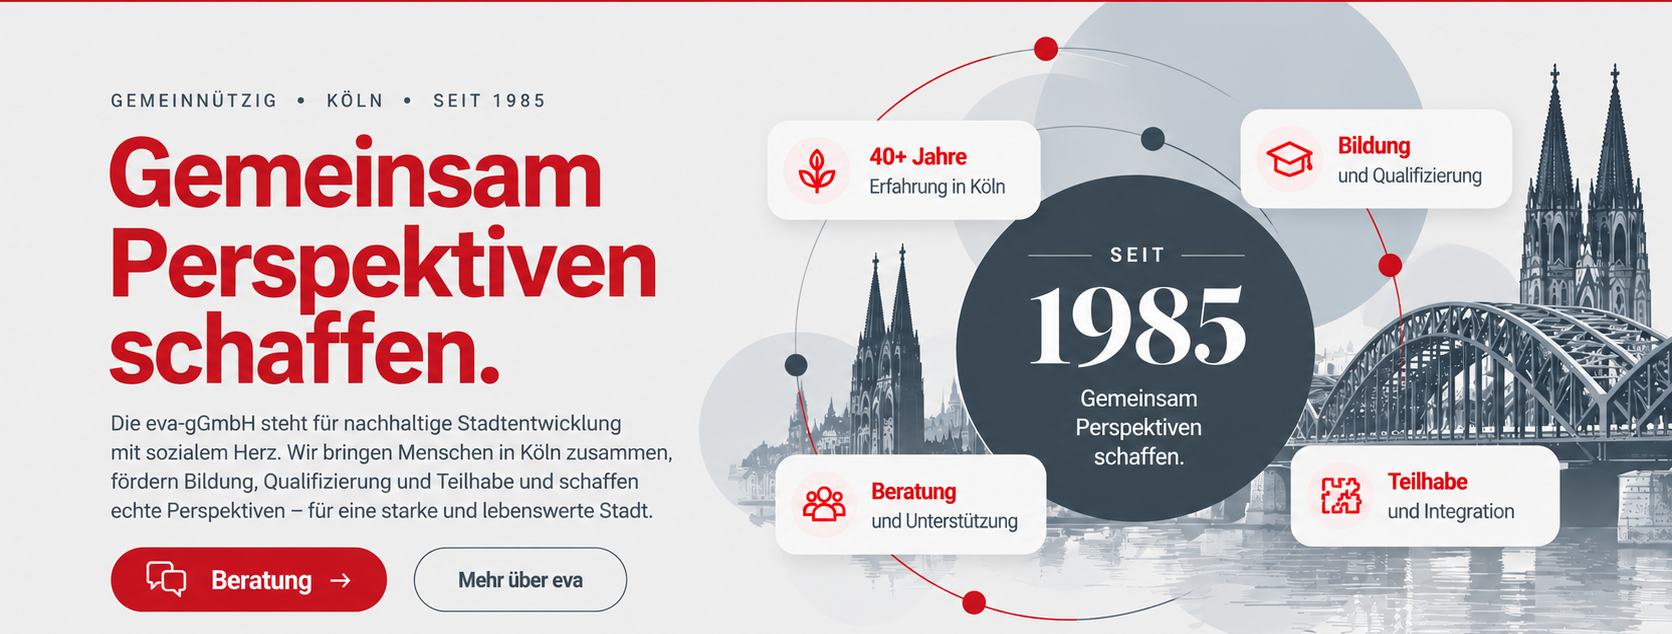
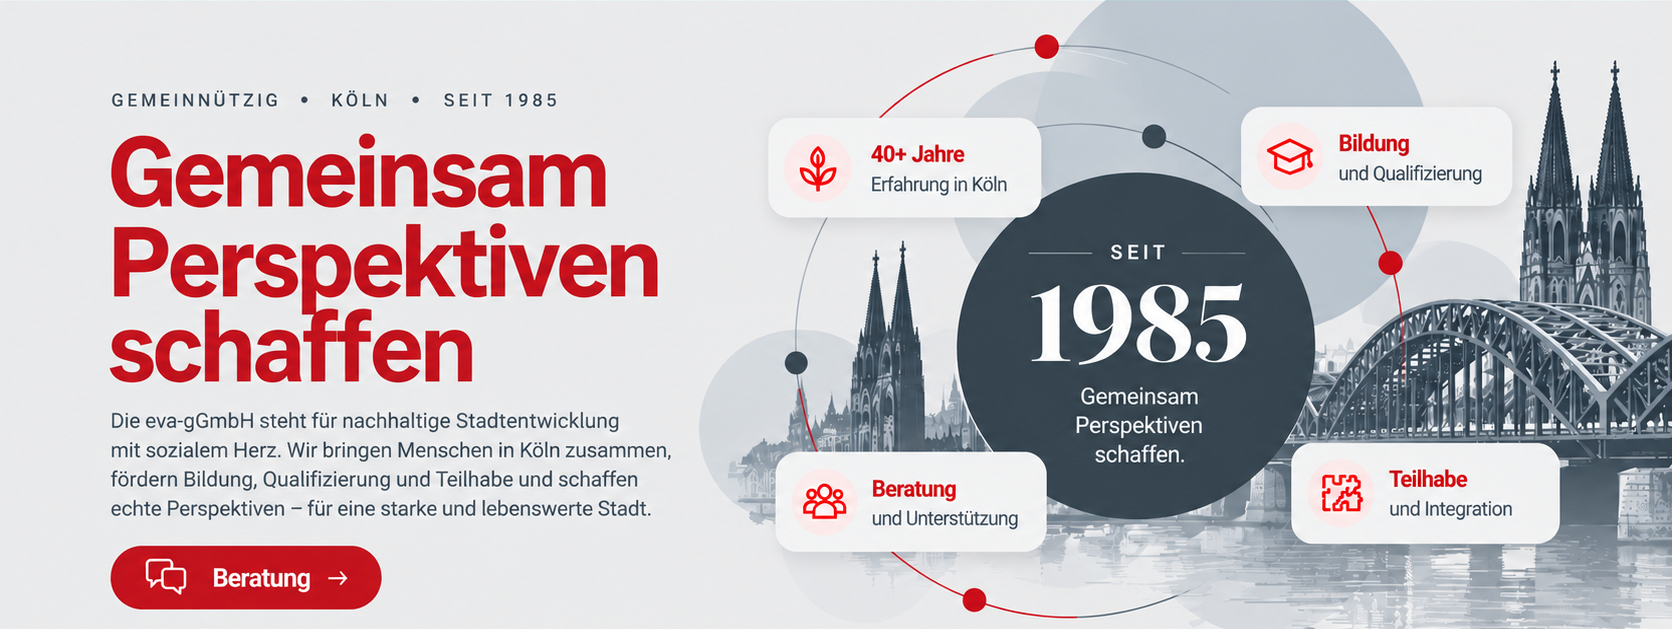
Korrektur von Birthe Müller

diff --git a/index.html b/index.html
@@ -9,11 +9,7 @@
     </nav>
     <button class="menu-toggle" aria-label="Menü öffnen">☰</button></div></header>
 <main>
-<section class="hero-image-v16" aria-label="eva – Gemeinsam Perspektiven schaffen">
-  <img src="assets/img/hero-final-v16.png" alt="Gemeinsam Perspektiven schaffen – eva seit 1985">
-  <a class="hero-beratung-hotspot" href="kontakt.html" aria-label="Beratung – zur Kontaktseite"><span>Beratung</span></a>
-</section>
-<div class="ticker" aria-label="Arbeitsfelder der eva"><div class="ticker-track"><span>BERATUNG</span><i>•</i><span>QUALIFIZIERUNG</span><i>•</i><span>INTEGRATION</span><i>•</i><span>BESCHÄFTIGUNG</span><i>•</i><span>NACHHALTIGKEIT</span><i>•</i><span>TEILHABE</span><i>•</i><span>BERATUNG</span><i>•</i><span>QUALIFIZIERUNG</span><i>•</i><span>INTEGRATION</span><i>•</i><span>BESCHÄFTIGUNG</span><i>•</i><span>NACHHALTIGKEIT</span><i>•</i><span>TEILHABE</span></div></div>
+<section class="hero-v19" aria-label="eva – Gemeinsam Perspektiven schaffen"><div class="hero-v19-inner"><div class="hero-v19-copy"><p class="hero-v19-eyebrow">GEMEINNÜTZIG · KÖLN · SEIT 1985</p><h1>Gemeinsam<br>Perspektiven<br>schaffen</h1><p class="hero-v19-description">Die eva-gGmbH steht für nachhaltige Stadtentwicklung mit sozialem Herz. Wir bringen Menschen in Köln zusammen, fördern Bildung, Qualifizierung und Teilhabe und schaffen echte Perspektiven – für eine starke und lebenswerte Stadt.</p><div class="hero-v19-actions"><a class="btn" href="kontakt.html">Beratung →</a><a class="btn hero-v19-secondary" href="ueber-team.html">Mehr über eva →</a></div></div></section>
 <section class="section offers" id="angebote"><div class="section-head offers-head"><div><h2>Angebote</h2><p class="section-subtitle">Maßnahmen, Projekte und Repair Café</p></div><div class="intro"><p>Zusammen mit dem Jobcenter und der Agentur für Arbeit Köln bieten wir Maßnahmen zur Beratung und Qualifizierung sowie Möglichkeiten für Fachpraktika und Arbeitsgelegenheiten. Wir vermitteln Arbeit suchende Menschen nachhaltig in den Arbeitsmarkt. In unseren Berufsfelderkungen unterstützen wir junge Menschen dabei, sich frühzeitig beruflich zu orientieren. In unseren Angeboten ermöglichen und fördern wir die Zusammenarbeit und den Dialog von Menschen aller Altersstufen und Schichten, Religionen und Kulturen. Unsere Angebote umfassen dabei auch Themen wie Ökologie und Nachhaltigkeit, z. B. in unserer kostenlosen Offenen Werkstatt für Re- und Upcyclinjg. Alle Angebote sind barrierearm oder -frei.</p></div></div>
 <div class="offer-grid feature-grid"><a class="offer-card featured" href="angebot-campus-fit.html"><div class="card-image"><img src="assets/img/angebot-campus-fit.png" alt="Campus: Fit für die Zukunft"></div><div class="card-copy"><span class="eyebrow">Angebot</span><h3>Campus: Fit für die Zukunft</h3><p>Individuelle Begleitung und Beratung</p><span class="more">Mehr erfahren →</span></div></a></div><div class="offer-grid three"><a class="offer-card" href="angebot-campus-arbeit.html"><div class="card-image"><img src="assets/img/angebot-campus-arbeit.png" alt="Campus: Arbeit"></div><div class="card-copy"><span class="eyebrow">Angebot</span><h3>Campus: Arbeit</h3><p>Mit Campus: Arbeit stellen sich in Arbeitsvermittlung und Bewerbungscoaching langjährig erfahrene Partner an Ihre Seite.</p><span class="more">Mehr erfahren →</span></div></a><a class="offer-card" href="angebot-jugendlotsen.html"><div class="card-image"><img src="assets/img/angebot-jugendlotsen.png" alt="Kölner Jugendlotsen"></div><div class="card-copy"><span class="eyebrow">Angebot</span><h3>Kölner Jugendlotsen</h3><p>Im Rahmen des Projektes Kölner Jugendlotsen stehen die Teilnehmenden mit ihren individuellen persönlichen und beruflichen Zielen, Kompetenzen, Potenzialen und Bedarfen im Mittelpunkt.</p><span class="more">Mehr erfahren →</span></div></a><a class="offer-card" href="angebot-berufsfelderkundungen.html"><div class="card-image"><img src="assets/img/angebot-berufsfeld.png" alt="Berufsfelderkundungen"></div><div class="card-copy"><span class="eyebrow">Angebot</span><h3>Berufsfelderkundungen</h3><p>Deine Zukunft. Dein Beruf. Entdecke, was in dir steckt!</p><span class="more">Mehr erfahren →</span></div></a></div><div class="offer-grid two"><a class="offer-card" href="angebot-ati.html"><div class="card-image"><img src="assets/img/angebot-ati.png" alt="ATI – Ankommen, Teilhaben, Integrieren"></div><div class="card-copy"><span class="eyebrow">Angebot</span><h3>ATI – Ankommen, Teilhaben, Integrieren</h3><p>ATI – Ankommen-Teilhaben-Integrieren ist ein Angebot im Rahmen des ESF-Programms EhAP Plus mit dem Ziel, die Lebenssituation von armutsgefährdeten und von sozialer Ausgrenzung bedrohten Personen zu verbessern. Insbesondere richtet es sich an besonders benachteiligte neuzugewanderte Unionsbürgerinnen und -bürger und deren Kinder unter 18 Jahren. Wir erreichen dieses Ziel durch Ansprache, Beratung und Begleitung.</p><span class="more">Mehr erfahren →</span></div></a><a class="offer-card" href="angebot-reha.html"><div class="card-image"><img src="assets/img/angebot-reha.png" alt="Berufliche Rehabilitation"></div><div class="card-copy"><span class="eyebrow">Angebot</span><h3>Berufliche Rehabilitation</h3><p>Unsere Maßnahme zur beruflichen Rehabilitation unterstützt Menschen dabei, ihren Weg in Arbeit zu finden – oder nach einer Unterbrechung erfolgreich zurückzukehren.</p><span class="more">Mehr erfahren →</span></div></a><a class="offer-card" href="angebot-ehrenwerk.html"><div class="card-image"><img src="assets/img/angebot-ehrenwerk.png" alt="Ehrenwerk"></div><div class="card-copy"><span class="eyebrow">Angebot</span><h3>Ehrenwerk</h3><p>Gemeinsam Altes aufmöbeln – in unserem Repair Café</p><span class="more">Mehr erfahren →</span></div></a><a class="offer-card" href="angebot-agh.html"><div class="card-image"><img src="assets/img/angebot-agh.png" alt="AGH-Stellen"></div><div class="card-copy"><span class="eyebrow">Angebot</span><h3>AGH-Stellen</h3><p>Die eva-gGmbH bietet im Auftrag des Jobcenters Köln, auf Grundlage des §16 SGB II, erwerbsfähigen Bezieherinnen und Beziehern von Bürgergeld die Möglichkeit, durch Beschäftigungsmaßnahmen ihre Beschäftigungsfähigkeit zu erhöhen und in der Perspektive ihre Chancen auf Integration in den ersten Arbeitsmarkt zu verbessern.</p><span class="more">Mehr erfahren →</span></div></a></div></section>
 <section class="section services" id="dienstleistungen"><div class="section-head services-head"><div><h2>Dienstleistungen</h2><p class="section-subtitle">Handwerkerleistungen, Fahrradwerkstatt und Raumvermietung</p></div><div class="intro"><p>Ob Sie professionelle Arbeiten aus verschiedenen Gewerken, einen Check für Ihr Fahrrad oder Räumlichkeiten für Arbeit oder Party suchen – entdecken Sie unsere Serviceangebote! Wir unterstützen Sie und erleichtern Ihnen den Alltag.</p></div></div><div class="service-grid"><a class="service-tile" href="dienstleistung-gewerke.html"><img src="assets/img/service-gewerke.png" alt="Gewerke"><div class="service-overlay"><h3>Gewerke</h3><span>Mehr erfahren →</span></div></a><a class="service-tile" href="dienstleistung-zweiradwerkstatt.html"><img src="assets/img/service-bike.png" alt="Zweiradwerkstatt 180°"><div class="service-overlay"><h3>Zweiradwerkstatt 180°</h3><span>Mehr erfahren →</span></div></a><a class="service-tile" href="dienstleistung-vermietung.html"><img src="assets/img/service-rental.png" alt="Vermietung"><div class="service-overlay"><h3>Vermietung</h3><span>Mehr erfahren →</span></div></a></div></section>

diff --git a/assets/site.css b/assets/site.css
@@ -1295,3 +1295,57 @@ main{background:var(--page-grey)}
   .hero-image-v16>img{width:1180px;max-width:none}
   .hero-beratung-hotspot{left:77px;top:538px;width:200px;height:60px}
 }
+
+/* v18 — final hero cleanup: only the animated ticker remains below artwork */
+.hero-beratung-hotspot{
+  left:6.55%;
+  top:85.6%;
+  width:16.8%;
+  height:9.7%;
+}
+@media(max-width:760px){
+  .hero-beratung-hotspot{
+    left:77px;
+    top:380px;
+    width:200px;
+    height:43px;
+  }
+}
+
+/* v19: continuous full-width cool-grey hero and section backgrounds */
+:root{--eva-hero-cool:#edf0f2;--eva-offers-cool:#dfe4e8}
+html,body{background:#e8ecef}
+.hero-v19{background:var(--eva-hero-cool);width:100%;margin:0;padding:clamp(38px,4.2vw,72px) max(22px,calc((100vw - 1440px)/2));box-sizing:border-box}
+.hero-v19-inner{max-width:1440px;margin:auto;display:grid;grid-template-columns:minmax(0,43%) minmax(0,57%);align-items:center;gap:0}
+.hero-v19-copy{padding:20px clamp(16px,3vw,46px) 20px 0;align-self:center}
+.hero-v19-eyebrow{font-size:.83rem;font-weight:750;letter-spacing:.2em;color:#3e4c57;margin:0 0 22px}
+.hero-v19-copy h1{font-size:clamp(2.25rem,3.5vw,3.85rem);line-height:1.08;letter-spacing:-.035em;color:#c91727;margin:0 0 24px;font-weight:800}
+.hero-v19-description{font-size:clamp(.97rem,1.15vw,1.12rem);line-height:1.65;color:#37434d;max-width:570px;margin:0 0 25px}
+.hero-v19-actions{display:flex;gap:12px;flex-wrap:wrap}
+.hero-v19-actions .btn{font-size:.96rem;padding:13px 23px;min-height:0}
+.hero-v19-secondary{background:transparent!important;color:#bd1827!important;border:1.5px solid #bd1827!important}
+.hero-v19-secondary:hover,.hero-v19-secondary:focus-visible{background:#bd1827!important;color:#fff!important}
+.hero-v19-graphic{min-width:0;overflow:hidden;display:flex;align-items:center;justify-content:center}
+.hero-v19-graphic img{width:100%;height:auto;display:block;mix-blend-mode:multiply}
+.home .offers{background:var(--eva-offers-cool)!important;border-radius:0!important;padding-top:clamp(34px,4vw,58px)!important;margin-top:0!important}
+.home .services{background:#e8ecef!important;border-radius:0!important}
+.home .offers .offers-head h2,.home .services .services-head h2{color:#c91727!important}
+@media(max-width:800px){.hero-v19{padding:28px 20px}.hero-v19-inner{grid-template-columns:1fr}.hero-v19-copy{padding:8px 0 22px}.hero-v19-copy h1{font-size:clamp(2.25rem,8vw,3.4rem)}.hero-v19-graphic{max-width:700px;margin:auto}}
+
+/* v20: cold grey full-width section bands, responsive width constraints */
+:root{--eva-light-cool:#e8edf1;--eva-dark-cool:#d7dfe5;--eva-content-max:1440px}
+html,body{width:100%;max-width:100%;overflow-x:clip;background:var(--eva-light-cool)}
+.site-header,.footer,.home .hero-v19,.home .offers,.home .services,.home .quote-section,.home .career-band{width:100%;max-width:100%;box-sizing:border-box}
+.site-header .header-inner,.footer .footer-grid,.footer .footer-bottom{max-width:var(--eva-content-max);margin-left:auto;margin-right:auto}
+.home .hero-v19{background:var(--eva-light-cool)!important;min-height:480px;padding-top:clamp(48px,6vw,90px);padding-bottom:clamp(48px,6vw,90px)}
+.home .hero-v19-inner{display:block!important;max-width:var(--eva-content-max);margin:0 auto}
+.home .hero-v19-copy{max-width:620px;margin:0;padding:20px clamp(16px,3vw,46px) 20px 0}
+.home .hero-v19-graphic{display:none!important}
+.home .offers{background:var(--eva-dark-cool)!important}
+.home .offers .offer-card,.home .offers .offer-card .card-copy{background:var(--eva-light-cool)!important}
+.home .services{background:var(--eva-light-cool)!important}
+.home .quote-section{background:var(--eva-dark-cool)!important;max-width:100%!important}
+.home .quote-panel{background:var(--eva-dark-cool)!important}
+.home .career-band{max-width:100%!important}
+.home .section-head,.home .offer-grid,.home .service-grid{max-width:min(var(--eva-content-max),calc(100% - 40px));margin-left:auto;margin-right:auto}
+@media(max-width:800px){.home .hero-v19{min-height:0;padding:40px 22px}.home .hero-v19-copy{padding:0;max-width:620px}.home .quote-section{height:auto!important}.home .career-band{height:auto!important}}
